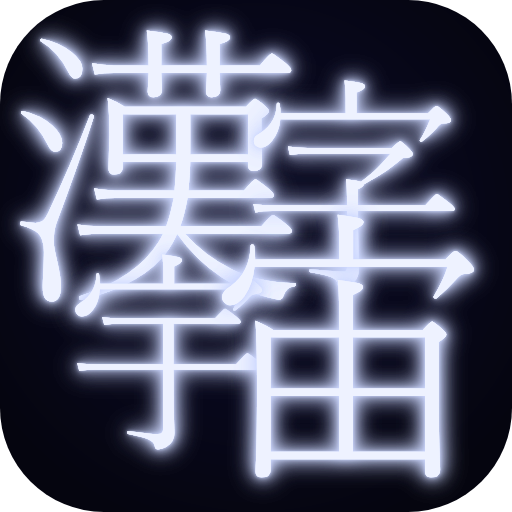
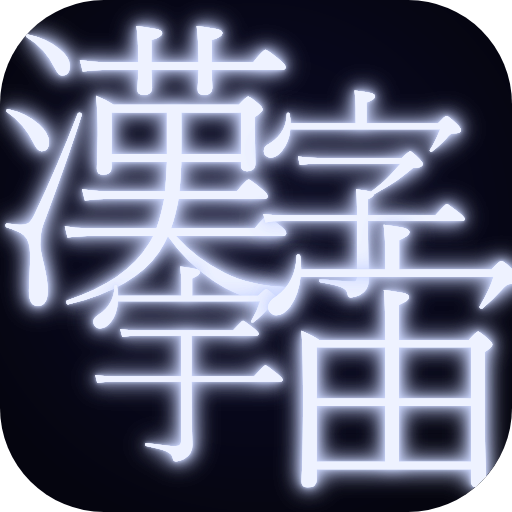
update

diff --git a/index.html b/index.html
@@ -148,12 +148,29 @@
         box-shadow: 0 0 8px rgba(150, 170, 255, 0.5);
       }
 
-      #zoom-hint { position: fixed; bottom: 20px; right: 20px; font-size: 11px; color: rgba(180, 190, 255, 0.3); z-index: 10; line-height: 1.8; text-align: right; }
+      /* 右下の info アイコン。クリックで info ボードを開く（操作ヒントは info ボードへ集約） */
+      #info-btn {
+        position: fixed; bottom: 20px; right: 20px; z-index: 10;
+        width: 30px; height: 30px; border-radius: 50%; padding: 0;
+        display: flex; align-items: center; justify-content: center;
+        background: rgba(10, 10, 30, 0.85);
+        border: 1px solid rgba(120, 140, 255, 0.3);
+        color: rgba(180, 190, 255, 0.55);
+        backdrop-filter: blur(8px);
+        font-family: "Inter", serif; font-style: italic; font-size: 16px; line-height: 1;
+        cursor: pointer;
+        transition: border-color 0.2s, color 0.2s, box-shadow 0.2s;
+      }
+      #info-btn:hover {
+        border-color: rgba(180, 200, 255, 0.7);
+        color: #e0e4ff;
+        box-shadow: 0 0 20px rgba(120, 140, 255, 0.25);
+      }
 
       #search-count { font-size: 11px; color: rgba(180, 190, 255, 0.45); white-space: nowrap; min-width: 56px; }
 
-      /* B: ウェルカムオーバーレイ — OGP画像の雰囲気を踏襲（Inter ExtraLight / 横罫 / グロー） */
-      #welcome {
+      /* 共有ボード — welcome / info で共用（OGP画像の雰囲気: Inter ExtraLight / 横罫 / グロー） */
+      .kv-overlay {
         display: none;
         position: fixed; inset: 0;
         align-items: center; justify-content: center;
@@ -164,8 +181,8 @@
         /* Inter は欧文用。漢字（例: 愛）は CJK フォントへフォールバックさせる */
         font-family: "Inter", "Hiragino Kaku Gothic ProN", "Noto Sans JP", sans-serif;
       }
-      #welcome.hidden { opacity: 0; }
-      #welcome-box {
+      .kv-overlay.hidden { opacity: 0; }
+      .kv-board {
         background: rgba(6, 6, 20, 0.72);
         border: 1px solid rgba(140, 160, 255, 0.18);
         border-radius: 20px; padding: 52px 40px;
@@ -176,7 +193,7 @@
                     inset 0 0 60px rgba(80, 100, 200, 0.05);
       }
       /* タイトル: OGP と同じ Inter 18pt ExtraLight・大文字・ワイドトラッキング・両脇に横罫 */
-      #welcome-title {
+      .kv-title {
         display: flex; align-items: center; justify-content: center; gap: 12px;
         font-weight: 200;
         font-optical-sizing: none;
@@ -190,16 +207,16 @@
         margin-bottom: 24px;
       }
       /* 末尾の letter-spacing 分を打ち消し、左右の横罫を対称に保つ */
-      #welcome-title span { letter-spacing: 0.9em; margin-right: -0.9em; }
-      #welcome-title::before, #welcome-title::after {
+      .kv-title span { letter-spacing: 0.9em; margin-right: -0.9em; }
+      .kv-title::before, .kv-title::after {
         content: ""; flex: 0 1 34px; min-width: 0; height: 1px;
         background: linear-gradient(to right, rgba(160, 180, 255, 0), rgba(160, 180, 255, 0.5));
       }
-      #welcome-title::after { transform: scaleX(-1); }
-      #welcome-desc { font-weight: 300; font-size: 15px; line-height: 1.9; letter-spacing: 0.01em; color: rgba(205, 214, 255, 0.82); margin-bottom: 14px; }
-      #welcome-hint { font-weight: 300; font-size: 13px; line-height: 1.9; color: rgba(180, 190, 255, 0.5); margin-bottom: 34px; }
-      #welcome-hint .dim { color: rgba(205, 214, 255, 0.78); }
-      #welcome-btn {
+      .kv-title::after { transform: scaleX(-1); }
+      .kv-desc { font-weight: 300; font-size: 15px; line-height: 1.9; letter-spacing: 0.01em; color: rgba(205, 214, 255, 0.82); margin-bottom: 14px; }
+      .kv-hint { font-weight: 300; font-size: 13px; line-height: 1.9; color: rgba(180, 190, 255, 0.5); margin-bottom: 34px; }
+      .kv-hint .dim { color: rgba(205, 214, 255, 0.78); }
+      .kv-btn {
         background: rgba(120, 140, 255, 0.12);
         border: 1px solid rgba(140, 160, 255, 0.35);
         border-radius: 24px; padding: 11px 34px;
@@ -208,11 +225,15 @@
         text-transform: uppercase; letter-spacing: 0.2em;
         transition: background 0.2s, border-color 0.2s, box-shadow 0.2s;
       }
-      #welcome-btn:hover {
+      .kv-btn:hover {
         background: rgba(120, 140, 255, 0.22);
         border-color: rgba(160, 180, 255, 0.6);
         box-shadow: 0 0 24px rgba(120, 140, 255, 0.25);
       }
+      /* info ボード固有: アクセス解析(GA)の開示。フッター扱いの微細テキスト */
+      .kv-fine { font-weight: 300; font-size: 11px; line-height: 1.8; letter-spacing: 0.02em; color: rgba(170, 180, 235, 0.4); margin-top: 30px; }
+      .kv-fine a { color: rgba(190, 200, 255, 0.6); text-decoration: none; border-bottom: 1px solid rgba(160, 180, 255, 0.25); }
+      .kv-fine a:hover { color: #e0e4ff; border-bottom-color: rgba(160, 180, 255, 0.6); }
 
     </style>
   </head>
@@ -261,18 +282,37 @@
     </div>
 
 
-    <div id="zoom-hint">Drag: rotate<br>Scroll: zoom</div>
+    <button id="info-btn" type="button" aria-label="About & privacy">i</button>
 
-    <!-- B: ウェルカムオーバーレイ（表示制御は main.ts で行う） -->
-    <div id="welcome">
-      <div id="welcome-box">
-        <div id="welcome-title"><span>Kanji-Verse</span></div>
-        <p id="welcome-desc">~2,800 Japanese kanji arranged by meaning.<br>Similar concepts cluster together in space.</p>
-        <p id="welcome-hint">
+    <!-- B: ウェルカムオーバーレイ（初回のみ。表示制御は main.ts で行う） -->
+    <div id="welcome" class="kv-overlay">
+      <div class="kv-board">
+        <div class="kv-title"><span>Kanji-Verse</span></div>
+        <p class="kv-desc">~2,800 Japanese kanji arranged by meaning.<br>Similar concepts cluster together in space.</p>
+        <p class="kv-hint">
           Search by kanji <span class="dim">愛</span> or English <span class="dim">love</span><br>
-          Click any star to see its readings and meaning.
+          Drag to rotate · scroll to zoom · click a star for details
         </p>
-        <button id="welcome-btn">Explore →</button>
+        <button id="welcome-btn" class="kv-btn">Explore →</button>
+      </div>
+    </div>
+
+    <!-- info ボード: 右下 ⓘ から開閉。welcome と同じ kv-overlay スタイルを共有。
+         About + 操作ヒント + アクセス解析(GA)の開示を集約（表示制御は main.ts） -->
+    <div id="info" class="kv-overlay">
+      <div class="kv-board">
+        <div class="kv-title"><span>Kanji-Verse</span></div>
+        <p class="kv-desc">~2,800 Japanese kanji arranged by meaning.<br>Similar concepts cluster together in space.</p>
+        <p class="kv-hint">
+          <span class="dim">Drag</span> to rotate · <span class="dim">scroll</span> to zoom<br>
+          <span class="dim">Click</span> a star to see its readings and meaning
+        </p>
+        <button id="info-close" class="kv-btn">Close</button>
+        <p class="kv-fine">
+          This site uses Google Analytics to understand how it's used. No personal data is collected.<br>
+          <a href="https://tools.google.com/dlpage/gaoptout" target="_blank" rel="noopener">Opt out</a> ·
+          <a href="https://policies.google.com/technologies/partner-sites" target="_blank" rel="noopener">How Google uses data</a>
+        </p>
       </div>
     </div>
 

diff --git a/src/three-3d/main.ts b/src/three-3d/main.ts
@@ -95,6 +95,24 @@ async function main() {
     document.addEventListener("keydown", dismiss, { once: true });
   }
 
+  // 右下 ⓘ から開閉する info ボード（welcome と同じ kv-overlay スタイルを共有。再表示可能）
+  const info = document.getElementById("info")!;
+  const closeInfo = () => {
+    info.classList.add("hidden");
+    info.addEventListener("transitionend", () => {
+      if (info.classList.contains("hidden")) info.style.display = "none";
+    }, { once: true });
+  };
+  document.getElementById("info-btn")!.addEventListener("click", () => {
+    info.classList.remove("hidden");
+    info.style.display = "flex";
+  });
+  document.getElementById("info-close")!.addEventListener("click", closeInfo);
+  info.addEventListener("click", (e) => { if (e.target === info) closeInfo(); });
+  document.addEventListener("keydown", (e) => {
+    if (e.key === "Escape" && info.style.display === "flex") closeInfo();
+  });
+
   startIntroZoom();
 
   function nodeWorldPos(n: { x: number; y: number; z?: number }): THREE.Vector3 {

diff --git a/context/adr/0005-google-analytics-and-privacy-disclosure.md b/context/adr/0005-google-analytics-and-privacy-disclosure.md
@@ -1,0 +1,45 @@
+# ADR-0005: Google アナリティクス導入とプライバシー開示方針
+
+## ステータス
+accepted
+
+## 日付
[phone redacted]
+
+## コンテキスト
+- ユーザー要求（引用）: 「Googleアナリティクスを設定したい。gtagは発行済（G-E6F07KS3MG）。これを適切な場所に置いといて。あと他にGoogleアナリティクスを使うのにケアすべきことは？」
+- 公開サイト（GitHub Pages）でアクセス解析を行うにあたり、Google アナリティクス利用規約は GA と Cookie の使用を利用者に**開示すること**を要求する。
+- 本サイトは星空風の世界観を持つ単一ページアプリ（ADR-0004）。開示を素のテキストリンクで足すと世界観が崩れる、というのがユーザーの懸念。
+- 既存に welcome オーバーレイ（Inter ExtraLight / 横罫 / グローの「ボード」意匠）があり、これを流用できる。
+- ユーザー判断で確定した前提: localhost ガードは不要 / 開示は「開示文＋シンプルなポリシー」で十分 / カスタムイベント計装は一旦不要 / 文言は英語のみ。
+
+## 検討した選択肢
+
+### 選択肢A: フッターに素のテキストリンクで Privacy ページへ
+- メリット: 実装が最小。`public/privacy.html` を置くだけ。
+- デメリット: 星空の世界観に対して異物感がある。常時表示のテキストが景観を損なう。
+
+### 選択肢B: 右下に ⓘ アイコン → welcome と同じボード調のポップアップで集約
+- メリット: 既存意匠を再利用し世界観を維持。About・操作ヒント・アクセス解析の開示を1枚に集約できる。常時表示だった `#zoom-hint`（操作ヒント）も「info」としてここへ統合でき、メインビューがすっきりする。
+- デメリット: マークアップ／JS が少し増える。操作ヒントが常時表示でなくなる。
+
+## 決定
+選択肢Bを採用する。
+- gtag.js スニペットを `index.html` の `<head>`（charset は先頭維持、async）に配置。
+- 右下に ⓘ アイコン（`#info-btn`）。クリックで `#info` ボードを開閉（再表示可能、表示制御は `main.ts`）。
+- info ボードの内容: About（アプリ説明）＋操作ヒント（Drag/Scroll/Click）＋アクセス解析(GA)の開示文＋ opt-out / Google データ利用ページへのリンク。**英語のみ**。
+- 常時表示の `#zoom-hint` は廃止し、操作ヒントは info ボードと welcome（初回）に集約。
+- welcome の CSS を `.kv-*` 共通クラス（`.kv-overlay` / `.kv-board` / `.kv-title` / `.kv-desc` / `.kv-hint` / `.kv-btn`）に切り出し、welcome と info で共有（DRY）。
+- 同意バナー（Consent Mode v2）は導入しない。
+
+## 理由
+- 世界観の一貫性とコストを両立できるのがBのみ。素リンク（A）は意匠を壊す。
+- zoom-hint と開示を info に統合することで、常時表示の UI を1つ減らしつつ情報量はむしろ増やせる。
+- 個人プロジェクトであり EU 圏への本格対応はスコープ外。日本の慣行上、GA のみなら「開示＋簡易ポリシー」で実務上十分との判断。
+
+## 影響
+- 操作ヒントが常時表示でなくなる。初回 discoverability を担保するため welcome の hint に操作行（Drag/Scroll/Click）を追記済み。
+- **localhost（dev: 5173 / preview: 4173）のテストアクセスも GA に計上される**（ガード不要の判断）。GA の数値は実数でなく傾向として扱う。広告ブロッカーによる欠測も同様。
+- 計測 ID `G-E6F07KS3MG` はクライアントに露出するが、これは仕様上の公開情報で秘匿不要。
+- IP は GA4 でデフォルト匿名化されるため `anonymize_ip` 指定は不要。
+- 将来 Content-Security-Policy を導入する場合、`googletagmanager.com` / `google-analytics.com` の許可が必要。

diff --git a/context/learnings.md b/context/learnings.md
@@ -37,3 +37,8 @@
   4. **favicon は 16/32px での見えを必ず実測する**。最初は文字を大きく・グロー強めにしたら 16/32px で煙状に潰れた。グリフを少し小さく・重なりを適度に・グローを抑える（shadowBlur/stdDeviation を下げる）と、小サイズでも「意図あるクラスタ」に見える。512px だけ見て判断しない。
   5. **ベクターパスを単一の真実にする**: opentype でアウトライン（SVG path data）を取り、SVG はそのまま、PNG/ICO は同じ path を `Path2D` で canvas に描く。配置定義を1箇所に集約すれば SVG とラスタがズレない。SVG の色は `stroke="rgba()"` ではなく `stroke` + `stroke-opacity` に分ける（属性互換性）。
 - **適用範囲**: favicon / OGP / アプリ内テクスチャなど、CJK を含む画像アセット生成全般。WSL2 環境でのフォント調達。
+
+## 2026-06-21: `/mnt/c` 上の編集は ENOENT を返しても書き込めていることがある
+- **背景**: index.html（`/mnt/c` 配下）への編集で、Edit ツールが `ENOENT: ... statx '.../index.html'` を返した。だが直後に Read すると変更は実際に適用されていた。エディタ/フォーマッタがファイルを書き換える瞬間と編集が競合し、書き込み後の stat が一時的に失敗するのが原因と推定（9P＋外部エディタ保存）。
+- **一般化**: WSL2 で Windows ドライブ（`/mnt/c`）上のファイルを編集中にツールがエラー（特に ENOENT/statx）を返したら、**即リトライせず、まず Read で適用状態を確認する**。すでに適用済みなら同じ編集を再実行すると二重適用・文字列不一致になる。
+- **適用範囲**: `/mnt/c` 配下のファイル編集全般（IDE で同ファイルを開いている／保存フォーマッタが走る環境）。